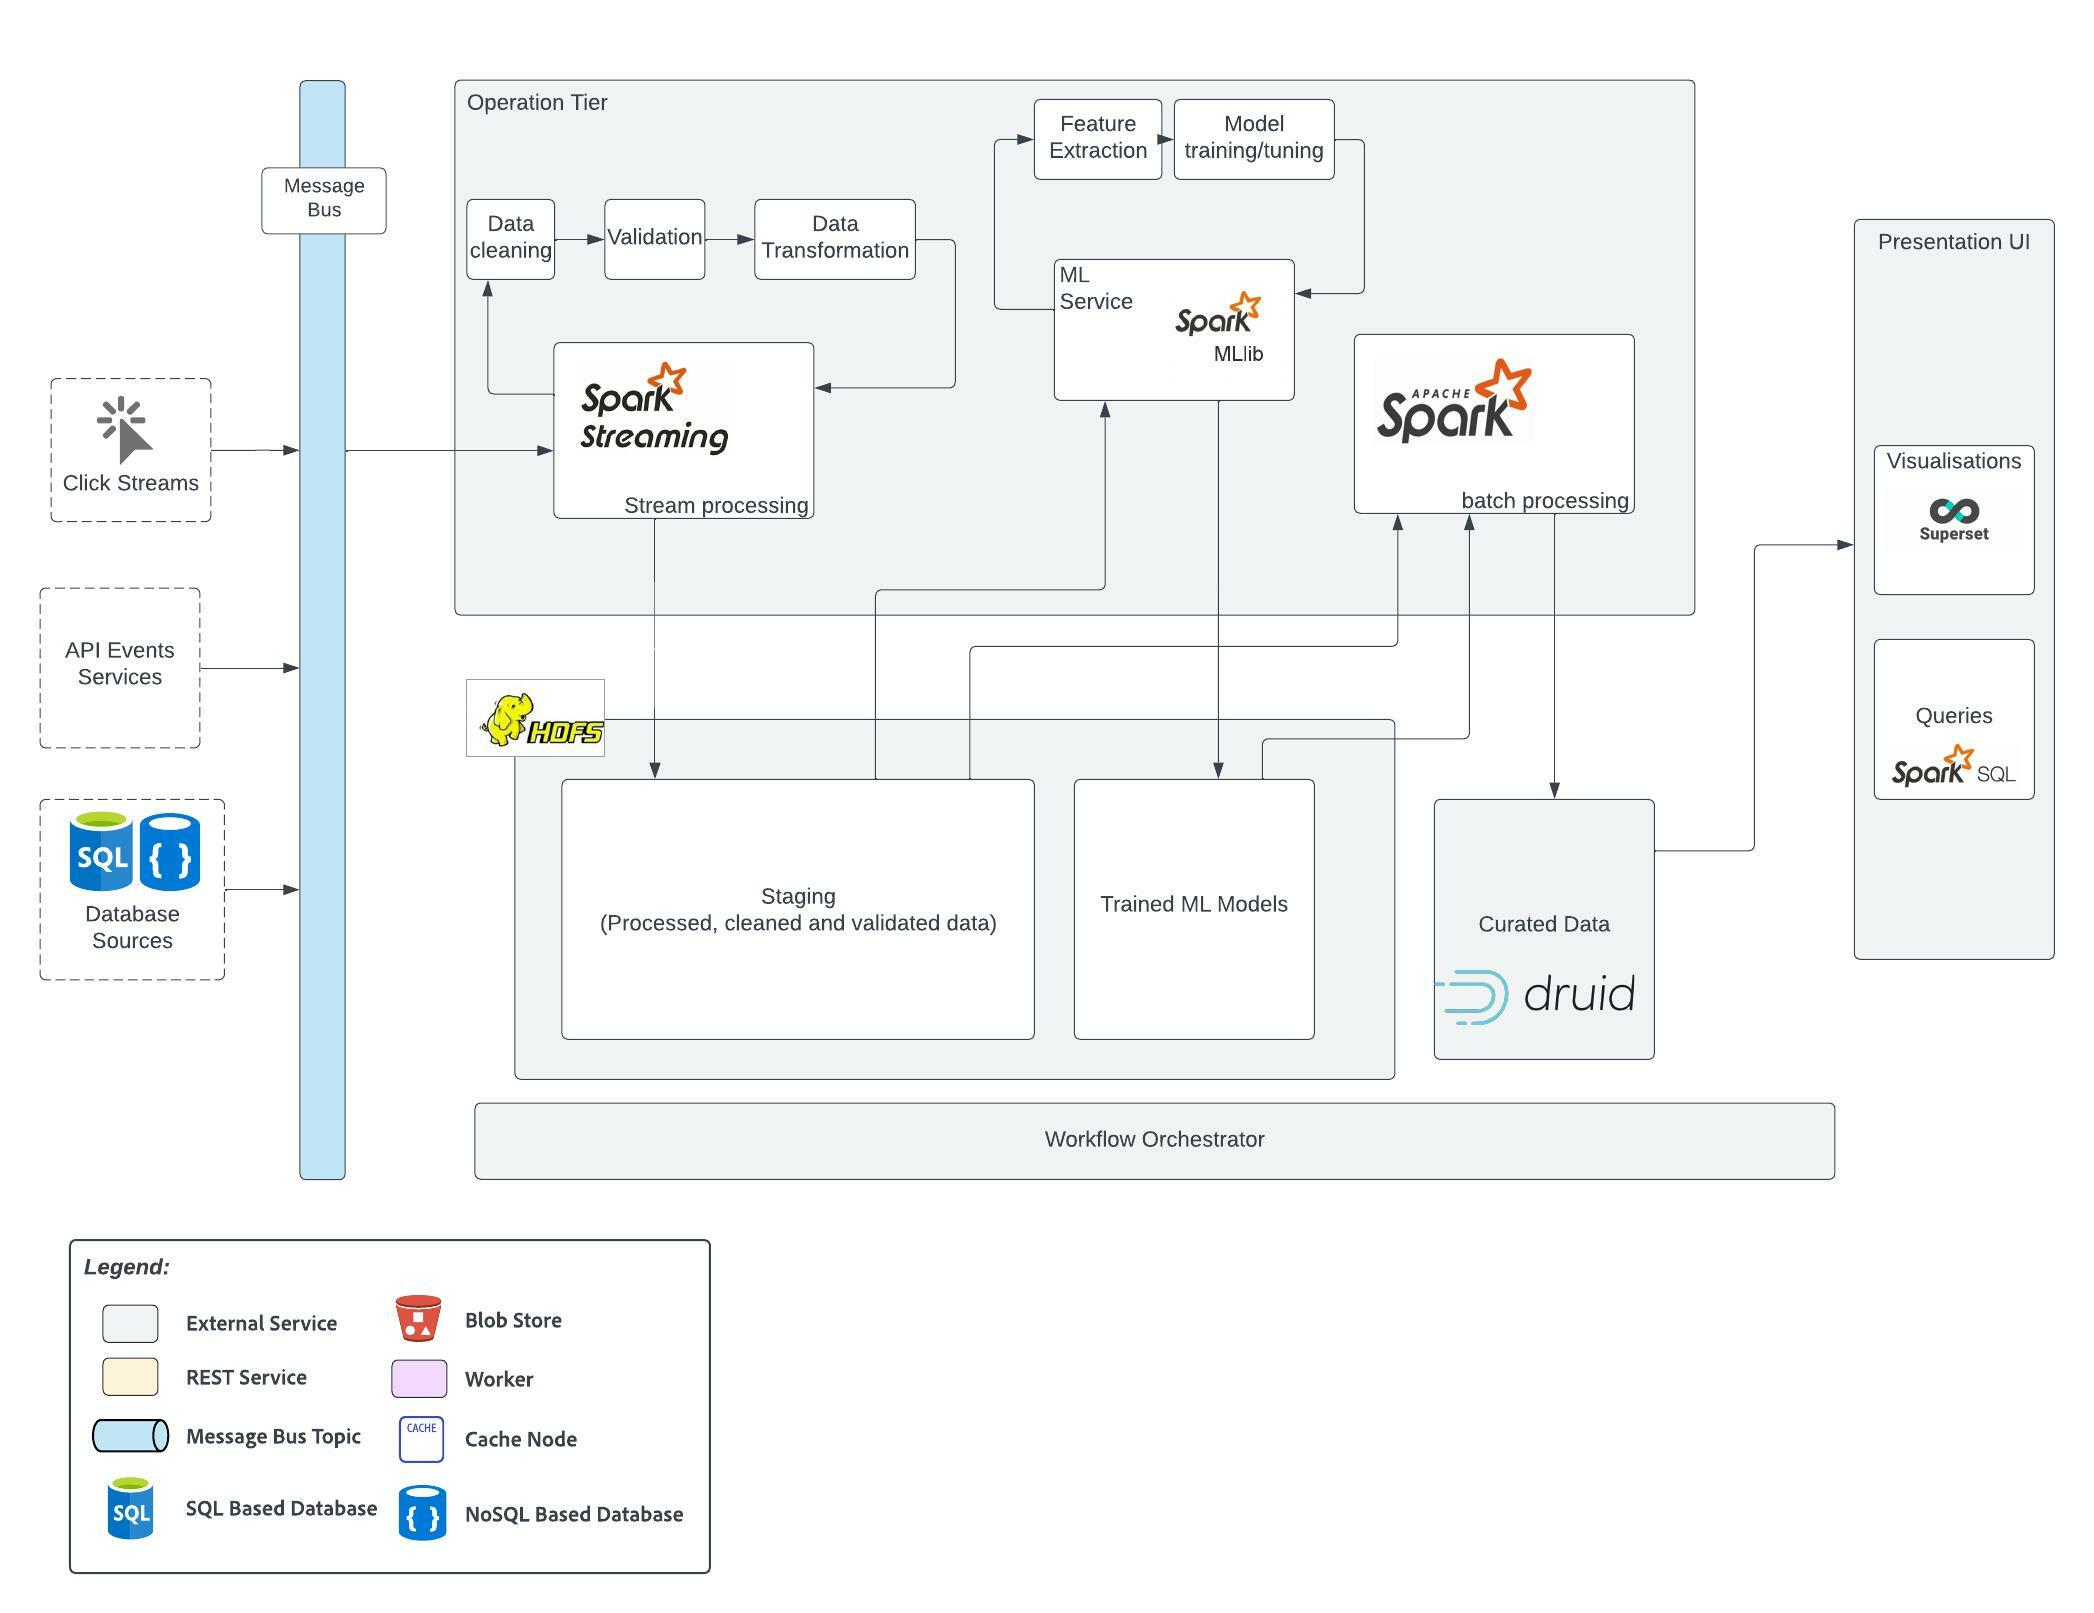
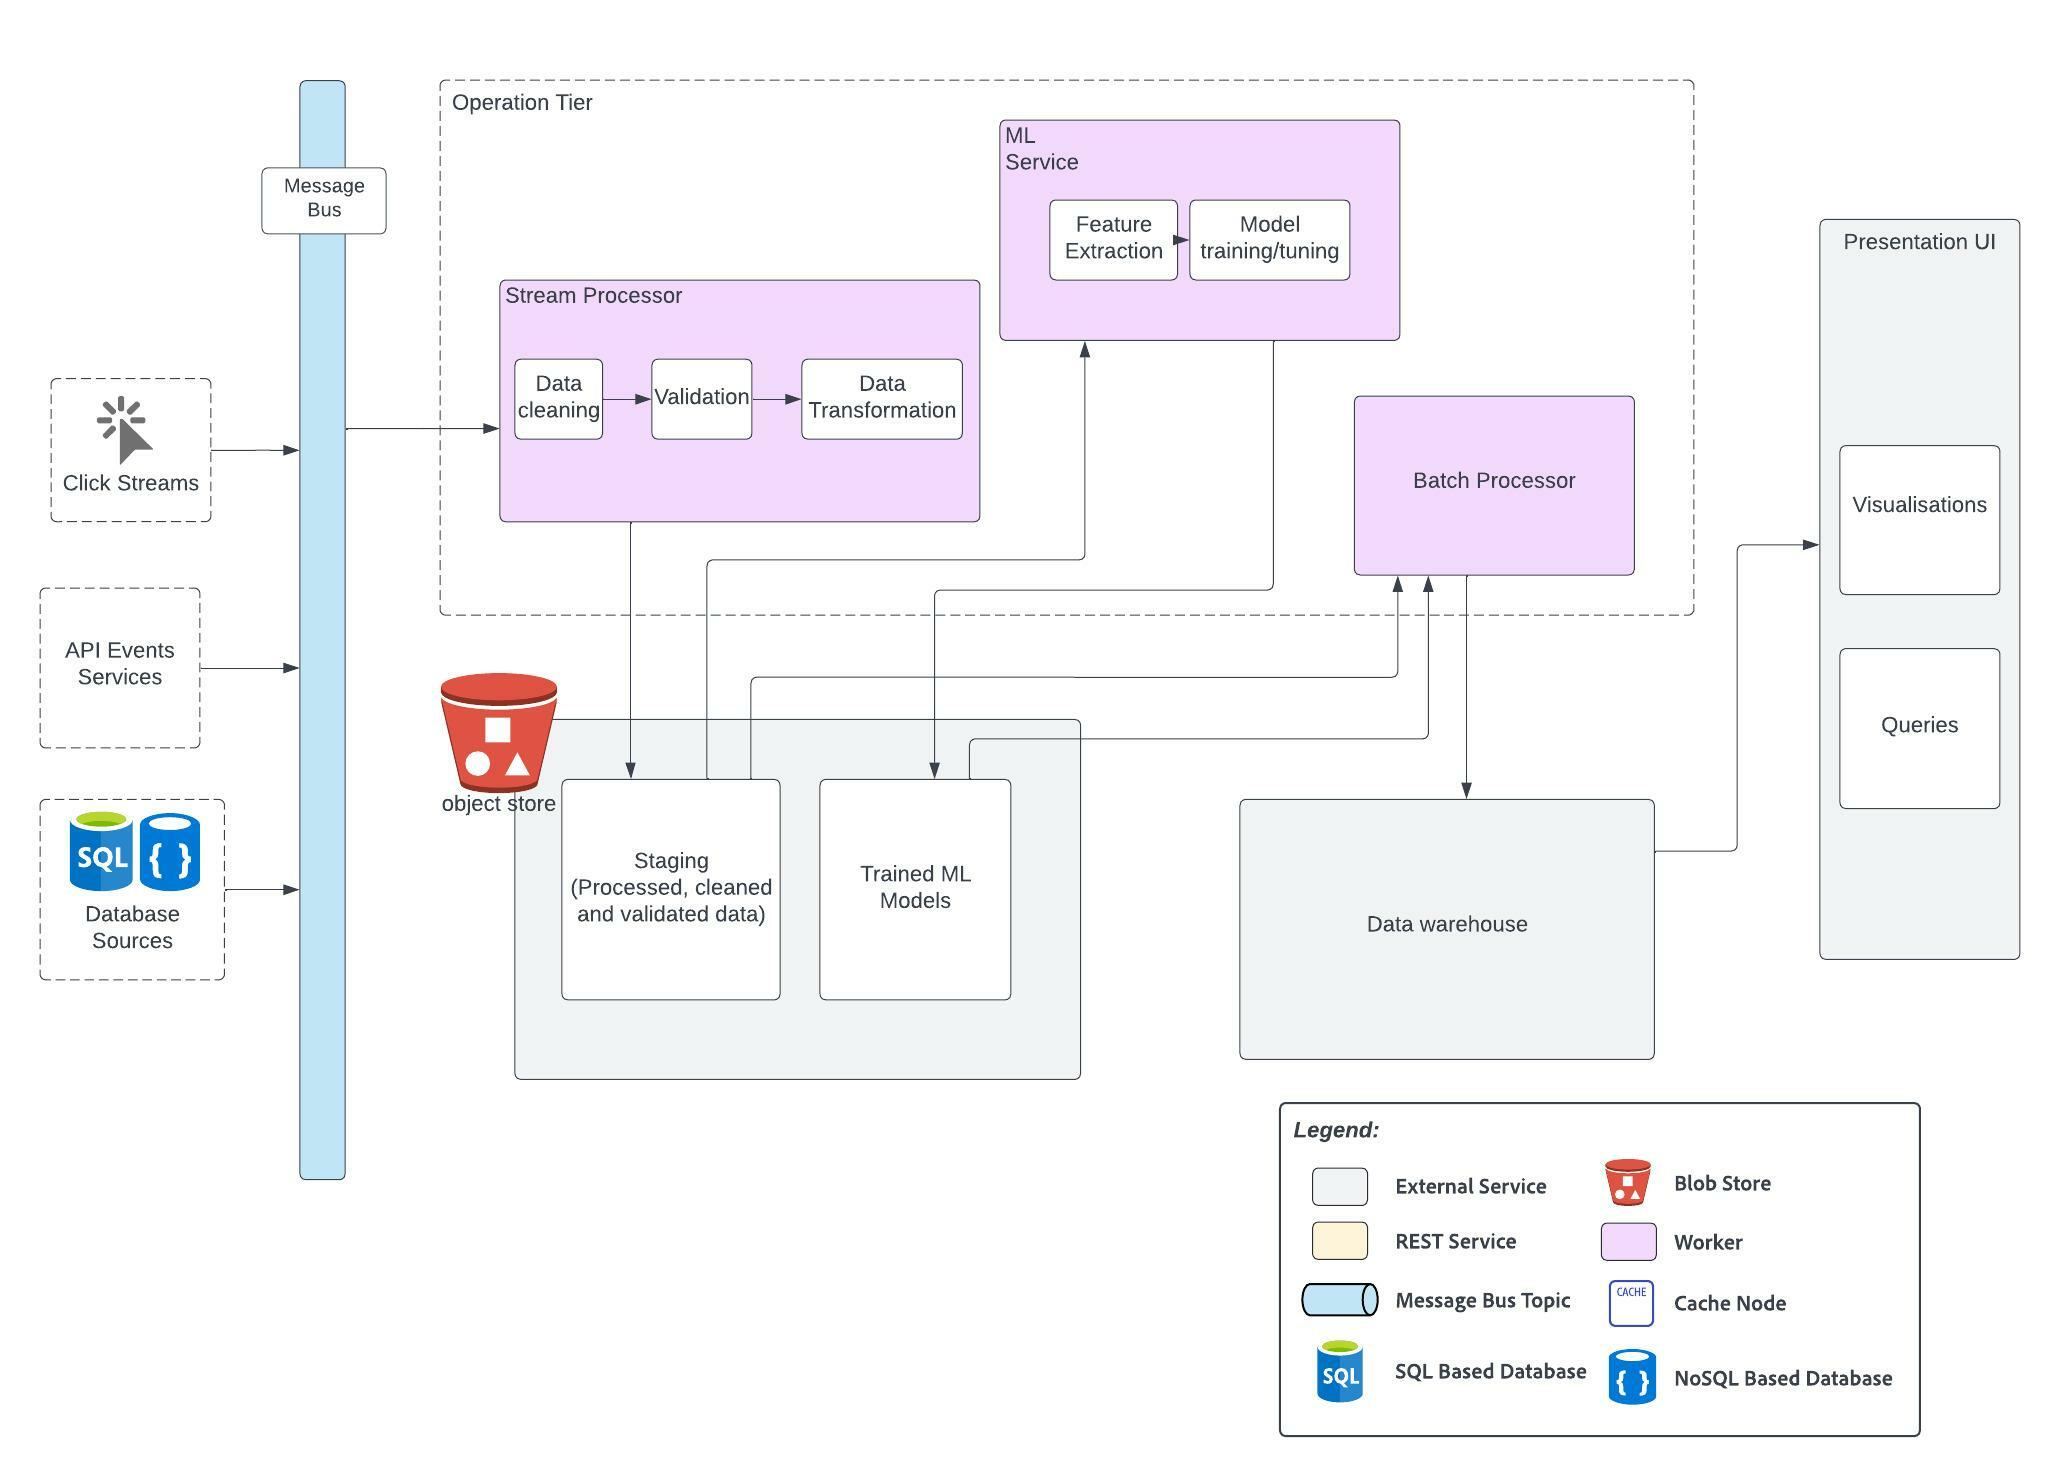
modify analytical view

diff --git a/architectural-views/analytical-architecture-subsystem.md b/architectural-views/analytical-architecture-subsystem.md
@@ -13,49 +13,55 @@ See platform requirements [#4, #5, #9](../requirements/functional-requirements.m
 - Operational Tier
 - Data warehouse
 - Presentation Tier
-- Operation Scheduler
 
 #### Data Ingestion
 This includes data from various sources such as click streams, feedback forms, databases, events emitted from various 
-services. All the data is made avaiable on various topics in Kafka which are then further processed by the Operational Tier. 
+services. All the data is made avaiable on various topics in a message bus like Kafka which are then further processed by the Operational Tier. 
 
 #### Data Lake
-Data Lakes such as HDFS cna be used to pre-processed data that are cleaned, validated and transformed into the desired format. 
+Data Lakes can be used to store pre-processed data that are cleaned, validated and transformed into the desired format. 
 This data is called staging data which is then further used to train or tune Machine Learning and for reporting. 
 The machine learning models are also stored in the Data Lake.
 
-#### Operational Tier
-The operational tier consists of service that uses Apache Spark Streaming to pre-process stream data from various Kafka topics.
+Some examples of technologies that can be used for data lake include:
+- AWS S3
+- HDFS
 
-There is a machine learning service that uses Apache Spark MLib library to train, tune machine learning models that will help to perform analytical tasks such as 
+#### Operational Tier
+The operational tier consists of services that do stream processing or batch processing on the data coming from the message bus or message stored in the data lake.
+
+Stream processing on incoming data stream could include cleaning, validating and transforming the data into meaningful formats.
+
+There is a machine learning service that can be used to train, tune machine learning models that will help to perform analytical tasks such as 
 predictive analysis (eg. projections of future desirable career paths), data classification , regression models for trend analysis, etc. Machine learning models 
 can also be trained that would help in the operational architecture such as for automatic tagging various NPO offerings based on their services and offerings, 
 recommendation service to help automatically match the candidates needs to the available offerings with a higher level of confidence in the suggestions provided.
 
-Then we have micro batch processing service using Apache Spark that fetches the data from the staging area in the data lake, 
+Some technologies that can be used to train ML models include:
+- [Apache Spark MLib](https://spark.apache.org/mllib/)
+- [Amazon Sagemaker](https://aws.amazon.com/sagemaker/)
+
+Then we have micro batch processing service that fetches the data from the staging area in the data lake, 
 processes the data using the ML models , and creates various views of the data depending on the type of reports that need to be generated. 
 
-All the data are then stored in a datawarehouse. 
+All the data are then stored in a data warehouse. 
 
 #### Data Warehouse
 
-For datawarehouse, the proposed technology is Apache Druid, an open source distributed data store that provides the capabilities of 
-time series databases, data warehouses and search systems to create a real time high performance real-time analytics database.
-It is a highly performant database that can ingest millions of events/sec, retain years of data, and provide sub-second queries. 
+Data warehouses store the final curated data on which various types of views can be obtained for analysis.
+Data from the data warehouse can be easily analysed using various Business Intelligence (BI) tools, and by searching using SQL queries. 
 
-Data can be easily analyses using various BI tools that easily integrate with Druid, and also by searching using SQL queries. 
-More details on Apache Druid and its capabilities can be found here: https://druid.apache.org/technology
+Some examples of technologies that can be used for datawarehouse include:
+- [Apache Druid](https://druid.apache.org/)
+- [Amazon Redshift](https://aws.amazon.com/redshift/)
 
 #### Presentation Tier
-Presentation Tier includes various tools for visualising the data in the data warehouse. It can either be reports created using Apache Spark SQL 
-or using Apache Superset that provides easy to use and intuitive tools to create simple to very detailed geospactial visualisations of the data.
-Superset is highly scalable and easily integrates with Apache Druid to help derive detailed analytical insights.
+Presentation Tier includes various tools for visualising the data in the data warehouse. It can either be reports created using SQL queries which is supported by many data warehouses or 
+using powerful visualisation software that provide easy to use and intuitive tools to create simple to very detailed geospactial visualisations of the data.
 
-For more details on Superset: https://superset.apache.org/
 
-#### Operation scheduler
-Operation scheduler helps in orchestrating the services in the operational tier, scheduling jobs at regular intervals, 
-determining the order in which the jobs are executed and so on.
+For instance, for visualisation one can use [Apache Superset](https://superset.apache.org/)
+Superset is highly scalable and easily integrates with warehouses like Apache Druid, Amazon Redshift and also with MySQL to help derive detailed analytical insights.
 
 ## Outcome
 All these tools help in creating great reports, and retrieve valuable information from data, that can help make business decisions to increase adoption 
